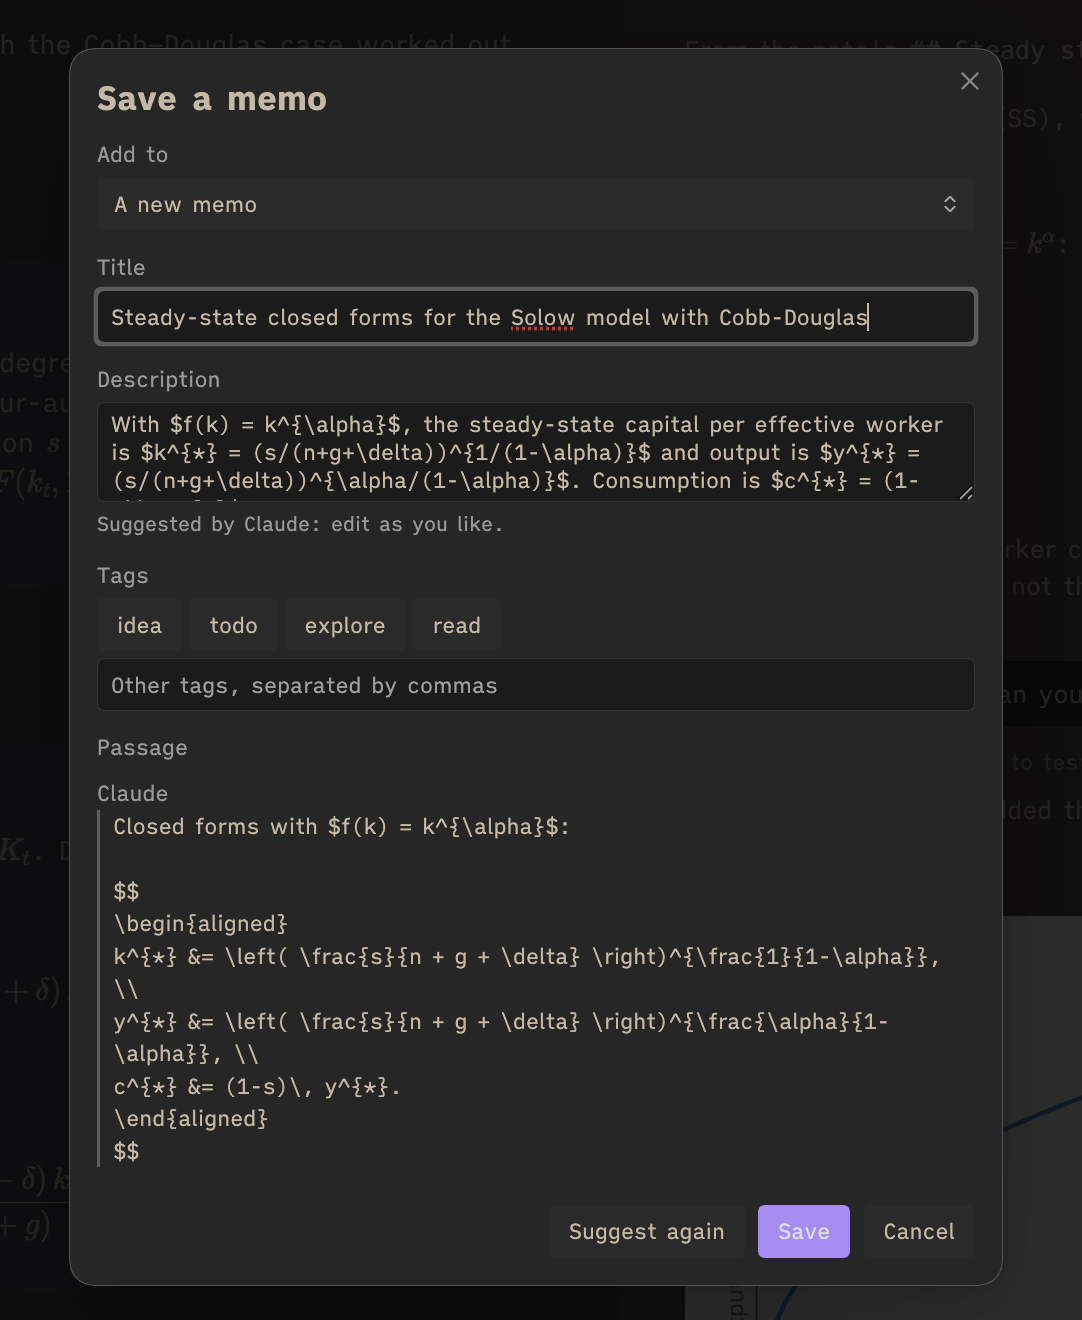
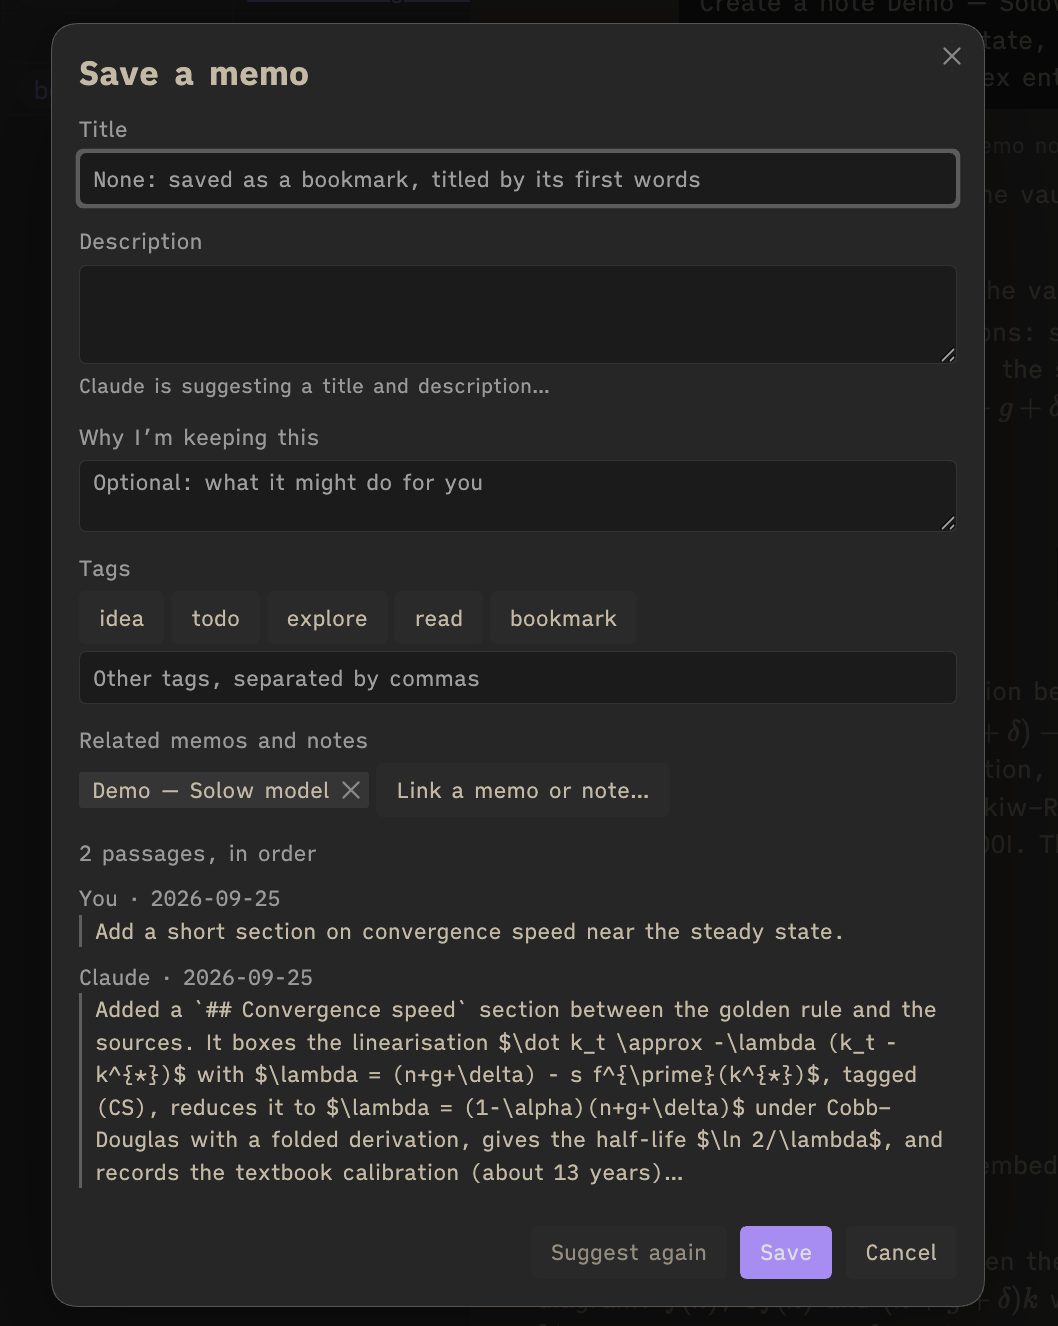
README: memo form screenshot for one memo per save, with its related memos and notes

diff --git a/README.md b/README.md
@@ -163,7 +163,7 @@ mjx-container.MathJax { font-size: calc(113.1% * 1.05) !important; }
 - Claude's model for small jobs suggests a title and description for you to edit. Add tags such as idea, todo, explore, read or bookmark, or your own, and optionally **Why I'm keeping this**. Each save makes a new memo.
 - **Related memos and notes** lists the chat's attached note and the notes the passages link to, each removable. **Link a memo or note…** links others: memos first (this chat's and those about the note in front, archived ones last and labelled), then the vault's notes. Link memos to each other to follow an idea across chats.
 
-  <img src="docs/memo-form.png" width="420" alt="The Save a memo form: Add to (A new memo), the title and description Claude suggested for a passage on the Solow model's steady state, “Suggested by Claude: edit as you like.”, the tag toggles idea, todo, explore and read, a field for other tags, the passage with its equations as LaTeX, and Suggest again, Save and Cancel">
+  <img src="docs/memo-form.png" width="420" alt="The Save a memo form: an empty title (saved as a bookmark if left so), the description with “Claude is suggesting a title and description…” below it, Why I’m keeping this, the tag toggles idea, todo, explore, read and bookmark and a field for other tags, Related memos and notes with the chip “Demo — Solow model” and Link a memo or note…, two passages in order, You and Claude dated 2026-09-25, the reply’s equations as LaTeX, and Suggest again, Save and Cancel">
 
 - For a quick bookmark, save with the title empty or ⌥-click (Alt-click) Memo or the reply's sticky-note icon to skip the form. The first words become its title, with a timestamp if needed; it gets the `bookmark` tag and appears in Bookmarks.
 - A memo note holds its description, then **Why**, **Next** (yours to fill in) and **Sources**: each passage with who wrote it and when, and links back to the chat. Its properties name the source chat and link the related memos and notes, creating backlinks.
